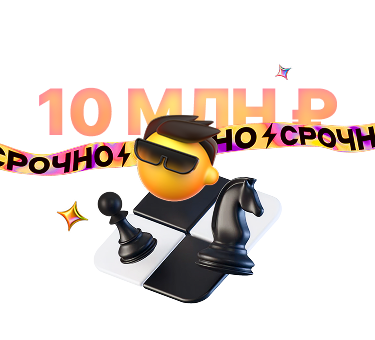
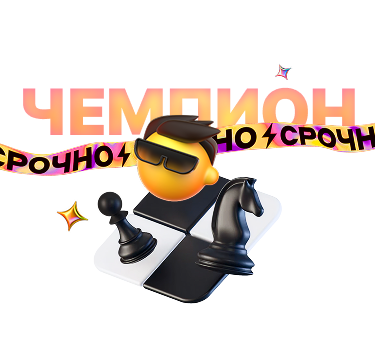
fix

Changed region(s): [[0.176, 0.2353, 0.968, 0.4118], [0.0587, 0.2353, 0.1467, 0.3824]]

diff --git a/src/App.tsx b/src/App.tsx
@@ -1,6 +1,4 @@
-import { BottomSheet } from '@alfalab/core-components/bottom-sheet/cssm';
 import { Button } from '@alfalab/core-components/button/cssm';
-import { Checkbox } from '@alfalab/core-components/checkbox/cssm';
 import { Gap } from '@alfalab/core-components/gap/cssm';
 import { PureCell } from '@alfalab/core-components/pure-cell/cssm';
 import { Typography } from '@alfalab/core-components/typography/cssm';
@@ -13,7 +11,7 @@ import firstPlaceImg from './assets/place1.svg';
 import hbImg from './assets/hb.png';
 import lockImg from './assets/lock.svg';
 import radarImg from './assets/radar.svg';
-import { achievementSlides, avaSlides, boardSlides, bundles, figSlides, listItems, phoneSlides } from './data';
+import { achievementSlides, avaSlides, boardSlides, figSlides, listItems, phoneSlides } from './data';
 import { LS, LSKeys } from './ls';
 import { appSt } from './style.css';
 
@@ -22,13 +20,6 @@ const LINK =
 
 export const App = () => {
   const [loading, setLoading] = useState(false);
-  const [openBs, setOpenBs] = useState(false);
-  const [bundlesState, setBundlesState] = useState<string[]>(['Альфа-Шахматы']);
-
-  const bundlesSum = bundlesState.reduce((sum, title) => {
-    const bundle = bundles.find(b => b.title === title);
-    return sum + (bundle ? (typeof bundle.price === 'number' ? bundle.price : 0) : 0);
-  }, 0);
 
   useEffect(() => {
     if (!LS.getItem(LSKeys.UserId, null)) {
@@ -51,7 +42,7 @@ export const App = () => {
               Альфа-Шахматы
             </Typography.TitleResponsive>
             <Typography.Text view="primary-small" color="secondary">
-              с призовым фондом
+              Чемпион в своём городе
             </Typography.Text>
           </div>
           <img
@@ -62,7 +53,7 @@ export const App = () => {
             style={{ objectFit: 'cover', transform: 'scale(1.1)', margin: '-1rem 0 1rem' }}
           />
           <Typography.Text view="primary-small" color="secondary">
-            Участвуйте в онлайн турнире с оффлайн финалом в Москве
+            Стань чемпионом своего города в рейтинговых играх
           </Typography.Text>
         </div>
 
@@ -371,60 +362,10 @@ export const App = () => {
       </div>
 
       <div className={appSt.bottomBtn}>
-        <Button block view="primary" onClick={() => setOpenBs(true)} style={{ borderRadius: '2rem' }}>
+        <Button block view="primary" loading={loading} onClick={submit} style={{ borderRadius: '2rem' }}>
           Играть бесплатно
         </Button>
       </div>
-
-      <BottomSheet
-        open={openBs}
-        onClose={() => {
-          setOpenBs(false);
-        }}
-        hasCloser
-        title="Выберите пакет"
-        titleAlign="left"
-        stickyHeader
-        actionButton={
-          <Button loading={loading} block view="primary" onClick={submit} style={{ borderRadius: '2rem' }}>
-            Играть {bundlesSum === 0 ? 'бесплатно' : `за ${bundlesSum} ₽`}
-          </Button>
-        }
-      >
-        <div className={appSt.container} style={{ padding: 0 }}>
-          {bundles.map((bundle, index) => (
-            <PureCell
-              className={appSt.listCell}
-              key={index}
-              onClick={() =>
-                setBundlesState(prev =>
-                  bundlesState.includes(bundle.title)
-                    ? prev.filter(title => title !== bundle.title)
-                    : [...prev, bundle.title],
-                )
-              }
-            >
-              <PureCell.Graphics verticalAlign="center">
-                <img src={bundle.img} alt={bundle.title} width={44} height={44} />
-              </PureCell.Graphics>
-              <PureCell.Content>
-                <PureCell.Main>
-                  <Typography.Text view="primary-medium" weight="medium">
-                    {bundle.title}
-                  </Typography.Text>
-                  <Typography.Text view="primary-small" color="secondary">
-                    {typeof bundle.price === 'number' ? `${bundle.price} ₽` : bundle.price}
-                  </Typography.Text>
-                </PureCell.Main>
-              </PureCell.Content>
-
-              <PureCell.Graphics verticalAlign="center">
-                <Checkbox size={24} checked={bundlesState.includes(bundle.title)} />
-              </PureCell.Graphics>
-            </PureCell>
-          ))}
-        </div>
-      </BottomSheet>
     </>
   );
 };